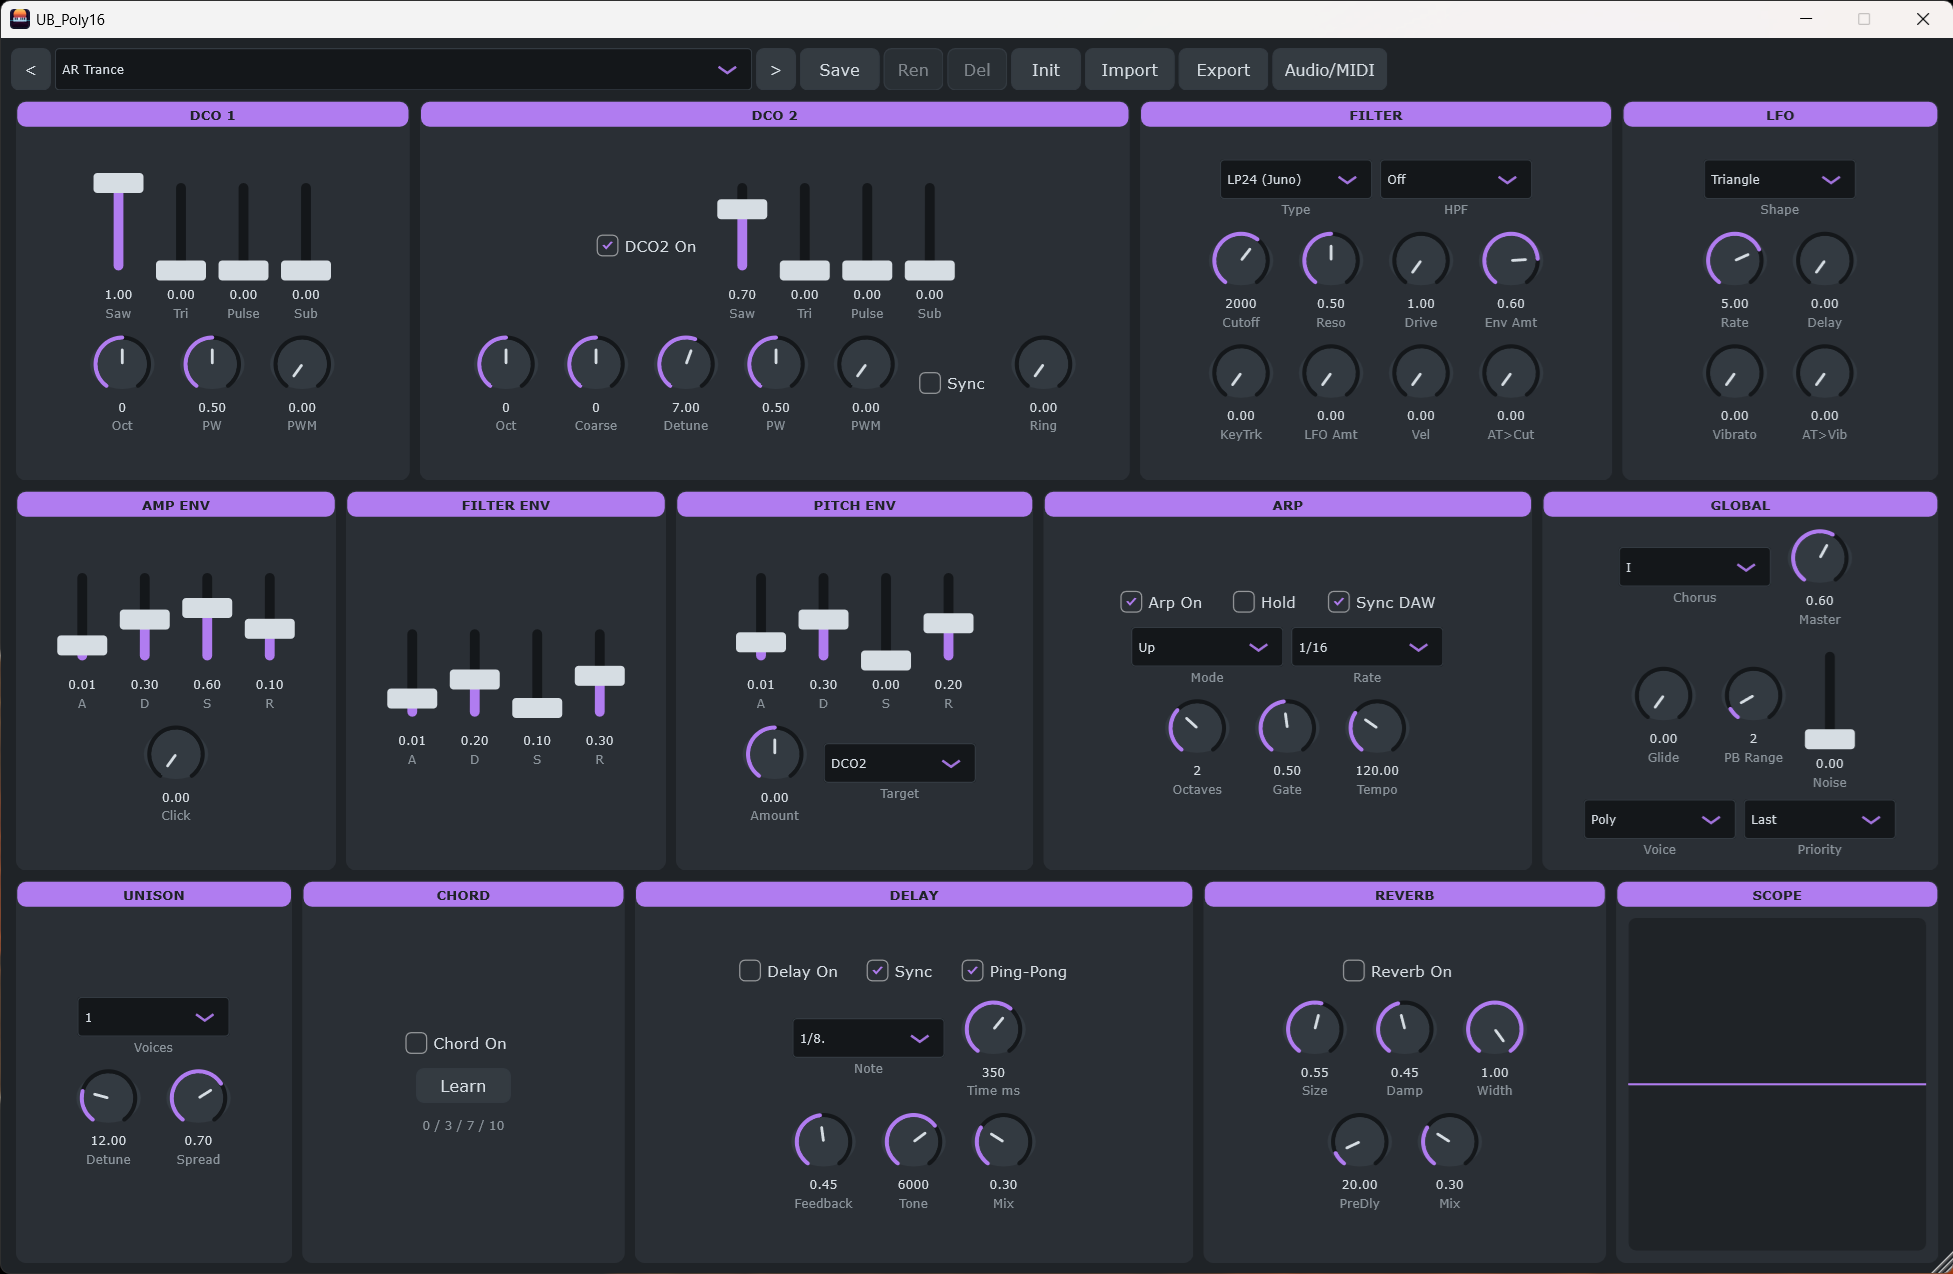
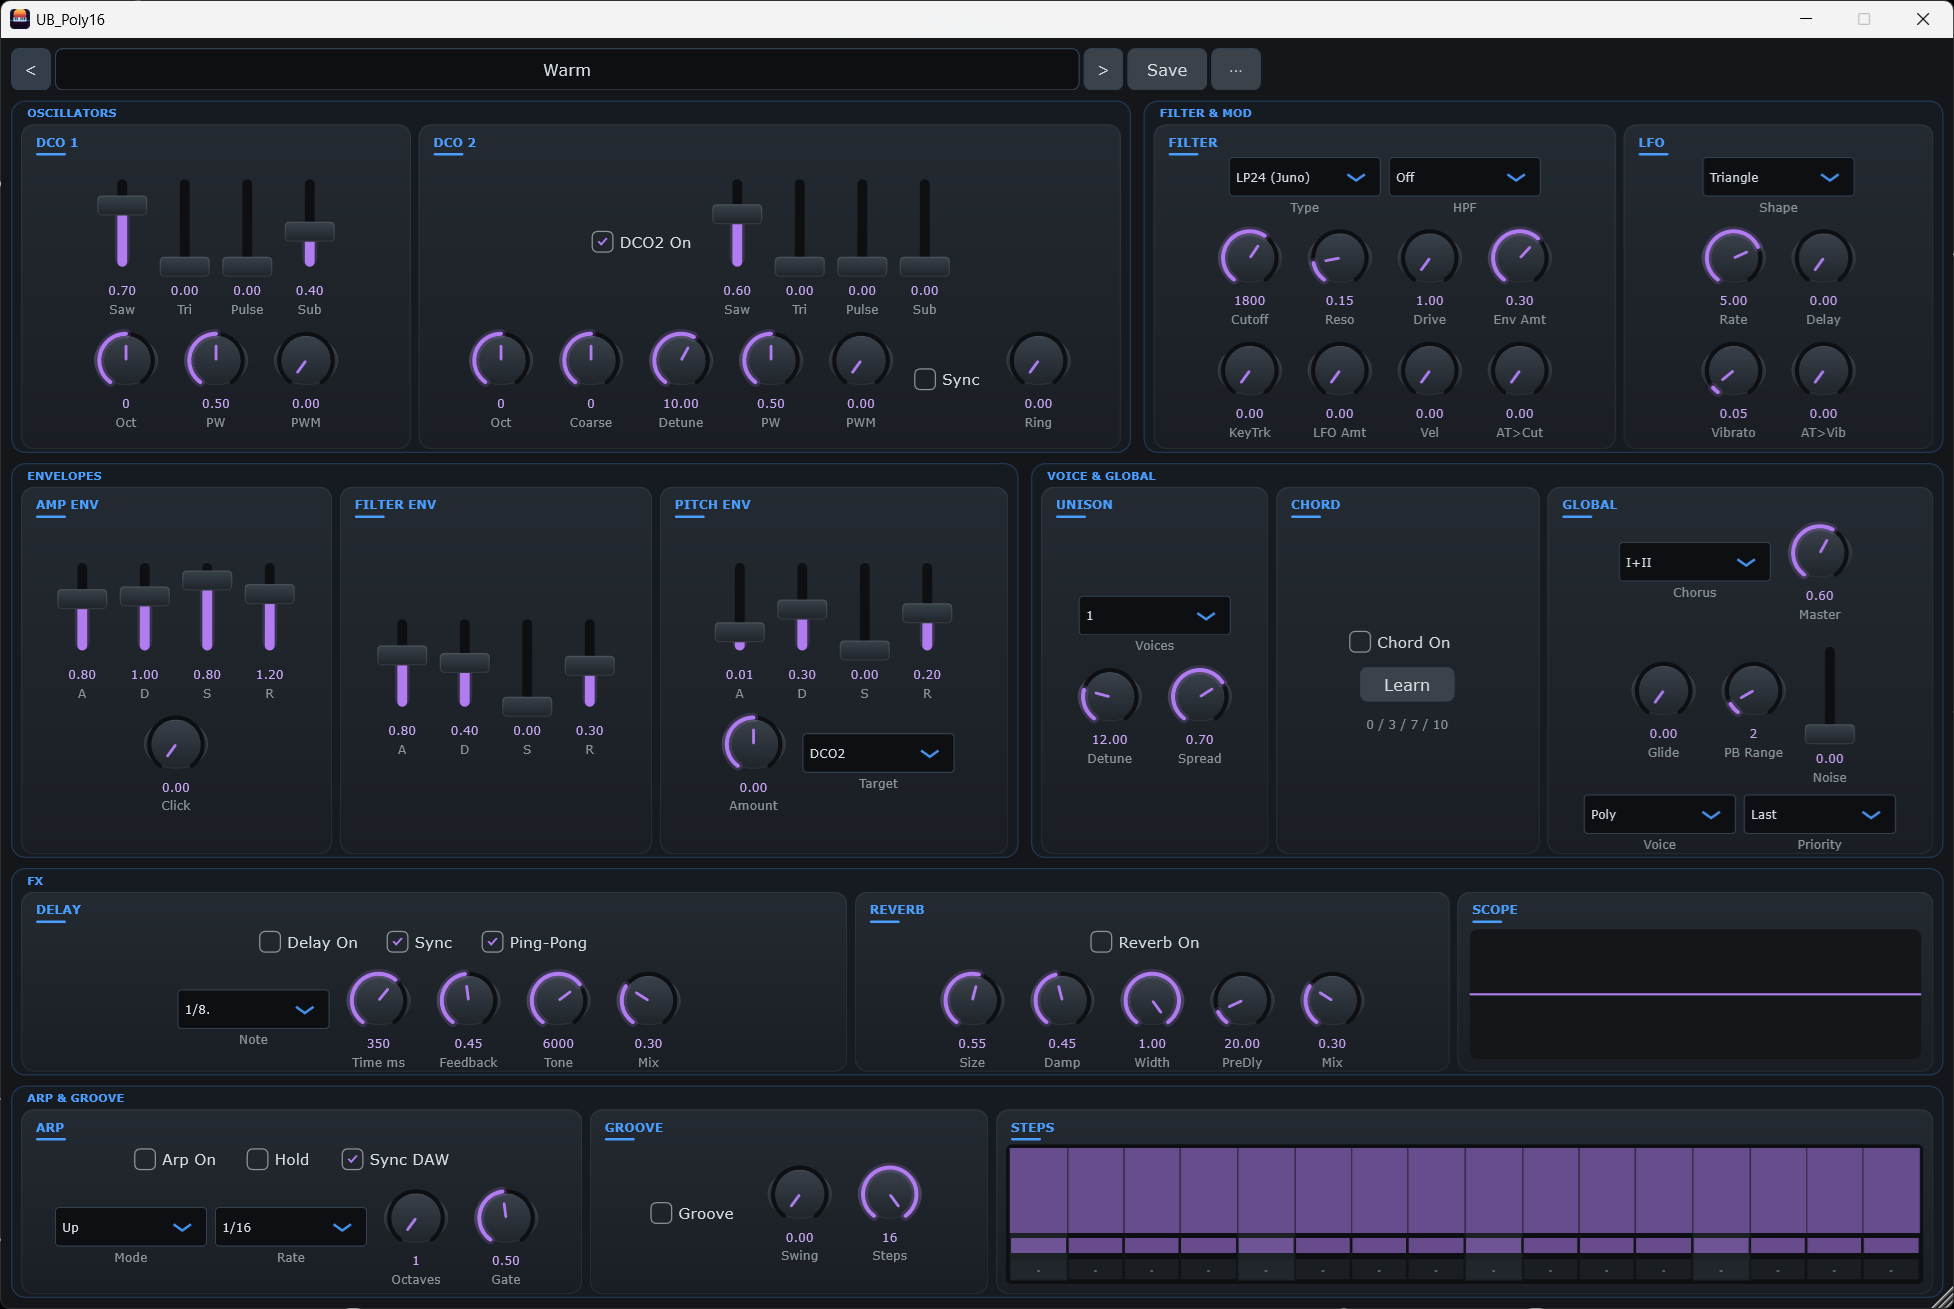
docs: refresh screenshots + README for v0.8.0
New full-GUI screenshot, add preset-browser screenshot, and bring the
feature list up to date (groove sequencer, preset browser, pitch env,
aftertouch, ring mod, 131 presets, azur/mauve theme).

diff --git a/README.md b/README.md
@@ -9,19 +9,26 @@ A tribute by THE UNBoRN / [RetroVault](https://retrovault.be).
 ## Features
 
 - **2 DCOs** per voice: polyBLEP saw & pulse (PW + PWM), triangle, sub-oscillator, noise
-- **Hard sync** DCO1 → DCO2
+- **Hard sync** and **ring modulation** (DCO1 → DCO2), DCO2 coarse tune (±24 semitones)
 - Juno-style non-resonant **HPF** (4 positions) + multimode **VCF**
   (LP/HP/BP, 12 & 24 dB/oct, drive), env / LFO / velocity / keytrack modulation
-- 2 ADSR envelopes (amp + filter), LFO (tri/sine/saw/square/S&H) with delay
+- 3 ADSR envelopes (amp, filter, **pitch** — for sync sweeps), LFO (tri/sine/saw/square/S&H) with delay
+- **Aftertouch** → cutoff / vibrato, and an attack-click transient
 - **Unison** up to 7 voices, JP-8000-style detune curve with stereo spread
 - **Voice modes**: Poly / Mono (retrigger + note memory) / Legato (single-trigger),
   with Last / Low / High note priority and cross-voice portamento
 - **Chord memory** (learn a chord, play it with one key) and per-knob **MIDI Learn**
-- Arpeggiator (5 modes, host-sync or internal tempo)
+- **Arpeggiator with a 16-step groove sequencer** — per-step on/off, accent, tie and
+  ratchet, global swing, host-PPQ phase-lock, and 9 note orders
 - Master FX: Juno-style chorus (I/II/I+II), tempo-synced stereo/ping-pong delay, reverb
-- Oscilloscope, **89 factory presets** (including a "Legends" bank of classic-synth
-  homages), user presets + bank import/export
-- Resizable custom GUI
+- Oscilloscope
+- **Preset browser** with categories, live search and favourites — **131 factory presets**
+  (including a "Legends" bank of classic-synth homages), user presets + bank import/export
+- Resizable custom GUI (azur / mauve theme)
+
+The built-in preset browser:
+
+![Preset browser](docs/browser.png)
 
 ## Building (Windows)
 